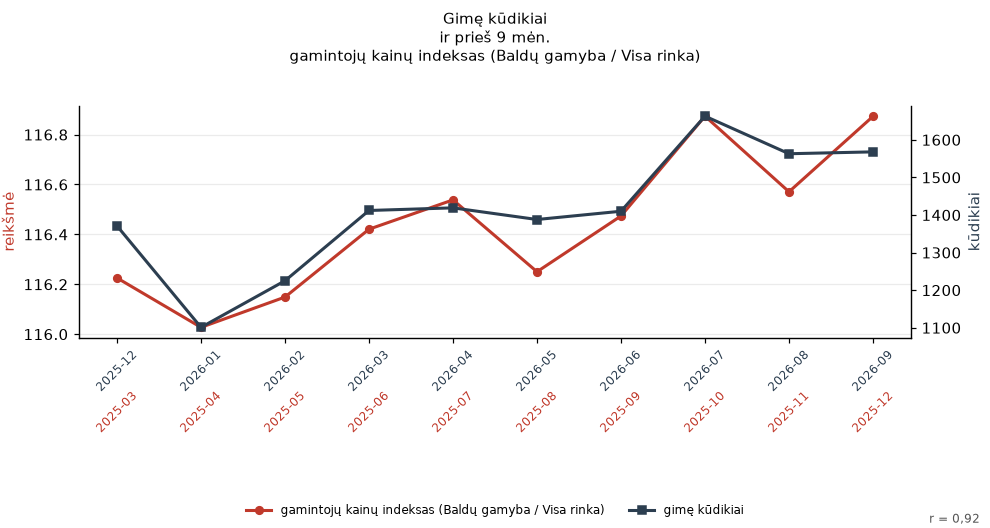
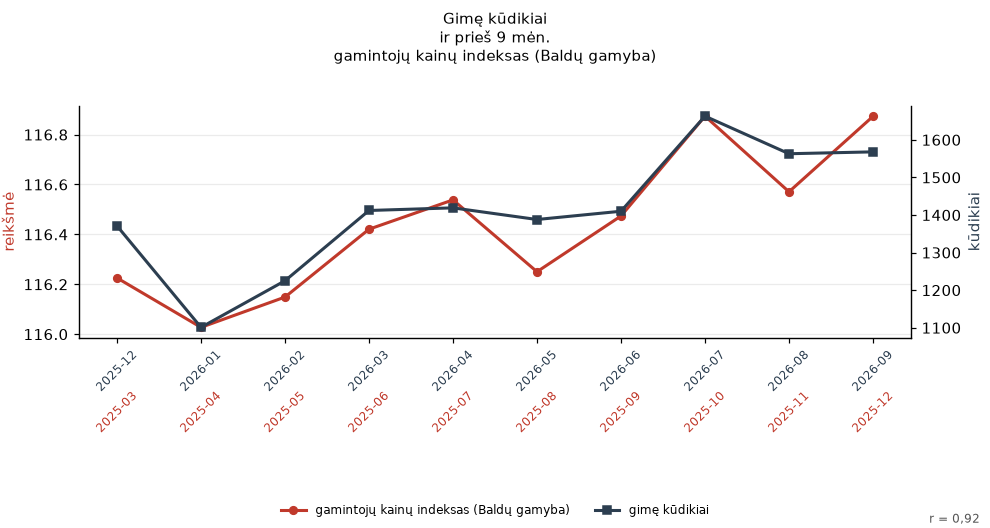
Post: no total in the label

Changed region(s): [[0.2424, 0.9394, 0.7576, 1.0], [0.2727, 0.0909, 0.7273, 0.1212]]

diff --git a/post/2026-10-23-7dfe51f0/index.html b/post/2026-10-23-7dfe51f0/index.html
@@ -1,10 +1,10 @@
 <!doctype html>
 <html lang="lt"><head><meta charset="utf-8">
 <meta name="viewport" content="width=device-width, initial-scale=1">
-<title>Pastaraisiais mėnesiais lyg tyčia sutapo: gimę kūdikiai ir prieš 9 mėn. gamintojų kainų indeksas (Baldų gamyba / Visa rinka) · Lyg tyčia</title>
+<title>Pastaraisiais mėnesiais lyg tyčia sutapo: gimę kūdikiai ir prieš 9 mėn. gamintojų kainų indeksas (Baldų gamyba) · Lyg tyčia</title>
 <meta property="og:type" content="article">
 <meta property="og:site_name" content="Lyg tyčia">
-<meta property="og:title" content="Pastaraisiais mėnesiais lyg tyčia sutapo: gimę kūdikiai ir prieš 9 mėn. gamintojų kainų indeksas (Baldų gamyba / Visa rinka)">
+<meta property="og:title" content="Pastaraisiais mėnesiais lyg tyčia sutapo: gimę kūdikiai ir prieš 9 mėn. gamintojų kainų indeksas (Baldų gamyba)">
 <meta property="og:description" content="Gimę kūdikiai ir prieš 9 mėn. gamintojų kainų indeksas (Baldų gamyba / Visa rinka) kyla ir krenta kartu: r = 0,92 per 10 mėn. (2025-12 – 2026-09).">
 <meta property="og:url" content="https://1gnas3000.github.io/lygtycia/post/2026-10-23-7dfe51f0/">
 <meta property="og:image" content="https://1gnas3000.github.io/lygtycia/post/2026-10-23-7dfe51f0/chart.png">
@@ -26,18 +26,18 @@
 <article><p class="meta">2026-10-23
  · panašios kreivės · mėnesio duomenys
  · r = 0,92</p>
-<h2>Pastaraisiais mėnesiais lyg tyčia sutapo: gimę kūdikiai ir prieš 9 mėn. gamintojų kainų indeksas (Baldų gamyba / Visa rinka)</h2>
+<h2>Pastaraisiais mėnesiais lyg tyčia sutapo: gimę kūdikiai ir prieš 9 mėn. gamintojų kainų indeksas (Baldų gamyba)</h2>
 
 <p><a href="../../post/2026-10-23-7dfe51f0/"><img src="../../post/2026-10-23-7dfe51f0/chart.png"
  alt="grafikas" loading="lazy"></a></p>
 <p class="sources">Duomenų šaltiniai:
  <a href="https://osp.stat.gov.lt/statistiniu-rodikliu-analize?indicator=S7R130" rel="noopener">Gamintojų kainų indeksas (Valstybės duomenų agentūra)</a> · <a href="https://osp.stat.gov.lt/statistiniu-rodikliu-analize?indicator=S3R842" rel="noopener">Gimusieji per mėnesį (Valstybės duomenų agentūra)</a></p>
 
-<p class="text">Gimę kūdikiai ir prieš 9 mėn. gamintojų kainų indeksas (Baldų gamyba / Visa rinka) kyla ir krenta kartu: r = 0,92 per 10 mėn. (2025-12 – 2026-09).</p><p class="text">Duomenys: „gamintojų kainų indeksas (Baldų gamyba / Visa rinka)“ (reikšmė) ir „gimę kūdikiai“ (kūdikiai).</p><p class="text">Tyler Vigen&#39;o „Spurious Correlations“ dvasia: iš tūkstančių atsitiktinių Lietuvos atvirų duomenų porų šios dvi nupiešė tą pačią kreivę.</p>
+<p class="text">Gimę kūdikiai ir prieš 9 mėn. gamintojų kainų indeksas (Baldų gamyba / Visa rinka) kyla ir krenta kartu: r = 0,92 per 10 mėn. (2025-12 – 2026-09).</p><p class="text">Duomenys: „gamintojų kainų indeksas (Baldų gamyba)“ (reikšmė) ir „gimę kūdikiai“ (kūdikiai).</p><p class="text">Tyler Vigen&#39;o „Spurious Correlations“ dvasia: iš tūkstančių atsitiktinių Lietuvos atvirų duomenų porų šios dvi nupiešė tą pačią kreivę.</p>
 <p class="share">Dalintis:
  <a href="https://www.facebook.com/sharer/sharer.php?u=https%3A//1gnas3000.github.io/lygtycia/post/2026-10-23-7dfe51f0/"
  rel="noopener">Facebook</a> ·
- <a href="https://mastodonshare.com/?text=Pastaraisiais%20m%C4%97nesiais%20lyg%20ty%C4%8Dia%20sutapo%3A%20gim%C4%99%20k%C5%ABdikiai%20ir%20prie%C5%A1%209%20m%C4%97n.%20gamintoj%C5%B3%20kain%C5%B3%20indeksas%20%28Bald%C5%B3%20gamyba%20/%20Visa%20rinka%29&url=https%3A//1gnas3000.github.io/lygtycia/post/2026-10-23-7dfe51f0/"
+ <a href="https://mastodonshare.com/?text=Pastaraisiais%20m%C4%97nesiais%20lyg%20ty%C4%8Dia%20sutapo%3A%20gim%C4%99%20k%C5%ABdikiai%20ir%20prie%C5%A1%209%20m%C4%97n.%20gamintoj%C5%B3%20kain%C5%B3%20indeksas%20%28Bald%C5%B3%20gamyba%29&url=https%3A//1gnas3000.github.io/lygtycia/post/2026-10-23-7dfe51f0/"
  rel="noopener">Mastodon</a> ·
  <a href="https://www.linkedin.com/sharing/share-offsite/?url=https%3A//1gnas3000.github.io/lygtycia/post/2026-10-23-7dfe51f0/"
  rel="noopener">LinkedIn</a></p>

diff --git a/index.html b/index.html
@@ -34,7 +34,7 @@
  <a href="https://www.linkedin.com/sharing/share-offsite/?url=https%3A//1gnas3000.github.io/lygtycia/post/2026-10-23-d5ac81c1/"
  rel="noopener">LinkedIn</a></p></article>
 <article><p class="meta">2026-10-23</p>
-<h2><a href="./post/2026-10-23-7dfe51f0/">Pastaraisiais mėnesiais lyg tyčia sutapo: gimę kūdikiai ir prieš 9 mėn. gamintojų kainų indeksas (Baldų gamyba / Visa rinka)</a></h2>
+<h2><a href="./post/2026-10-23-7dfe51f0/">Pastaraisiais mėnesiais lyg tyčia sutapo: gimę kūdikiai ir prieš 9 mėn. gamintojų kainų indeksas (Baldų gamyba)</a></h2>
 
 <p><a href="./post/2026-10-23-7dfe51f0/"><img src="./post/2026-10-23-7dfe51f0/chart.png"
  alt="grafikas" loading="lazy"></a></p>
@@ -45,7 +45,7 @@
 <p class="share">Dalintis:
  <a href="https://www.facebook.com/sharer/sharer.php?u=https%3A//1gnas3000.github.io/lygtycia/post/2026-10-23-7dfe51f0/"
  rel="noopener">Facebook</a> ·
- <a href="https://mastodonshare.com/?text=Pastaraisiais%20m%C4%97nesiais%20lyg%20ty%C4%8Dia%20sutapo%3A%20gim%C4%99%20k%C5%ABdikiai%20ir%20prie%C5%A1%209%20m%C4%97n.%20gamintoj%C5%B3%20kain%C5%B3%20indeksas%20%28Bald%C5%B3%20gamyba%20/%20Visa%20rinka%29&url=https%3A//1gnas3000.github.io/lygtycia/post/2026-10-23-7dfe51f0/"
+ <a href="https://mastodonshare.com/?text=Pastaraisiais%20m%C4%97nesiais%20lyg%20ty%C4%8Dia%20sutapo%3A%20gim%C4%99%20k%C5%ABdikiai%20ir%20prie%C5%A1%209%20m%C4%97n.%20gamintoj%C5%B3%20kain%C5%B3%20indeksas%20%28Bald%C5%B3%20gamyba%29&url=https%3A//1gnas3000.github.io/lygtycia/post/2026-10-23-7dfe51f0/"
  rel="noopener">Mastodon</a> ·
  <a href="https://www.linkedin.com/sharing/share-offsite/?url=https%3A//1gnas3000.github.io/lygtycia/post/2026-10-23-7dfe51f0/"
  rel="noopener">LinkedIn</a></p></article>
